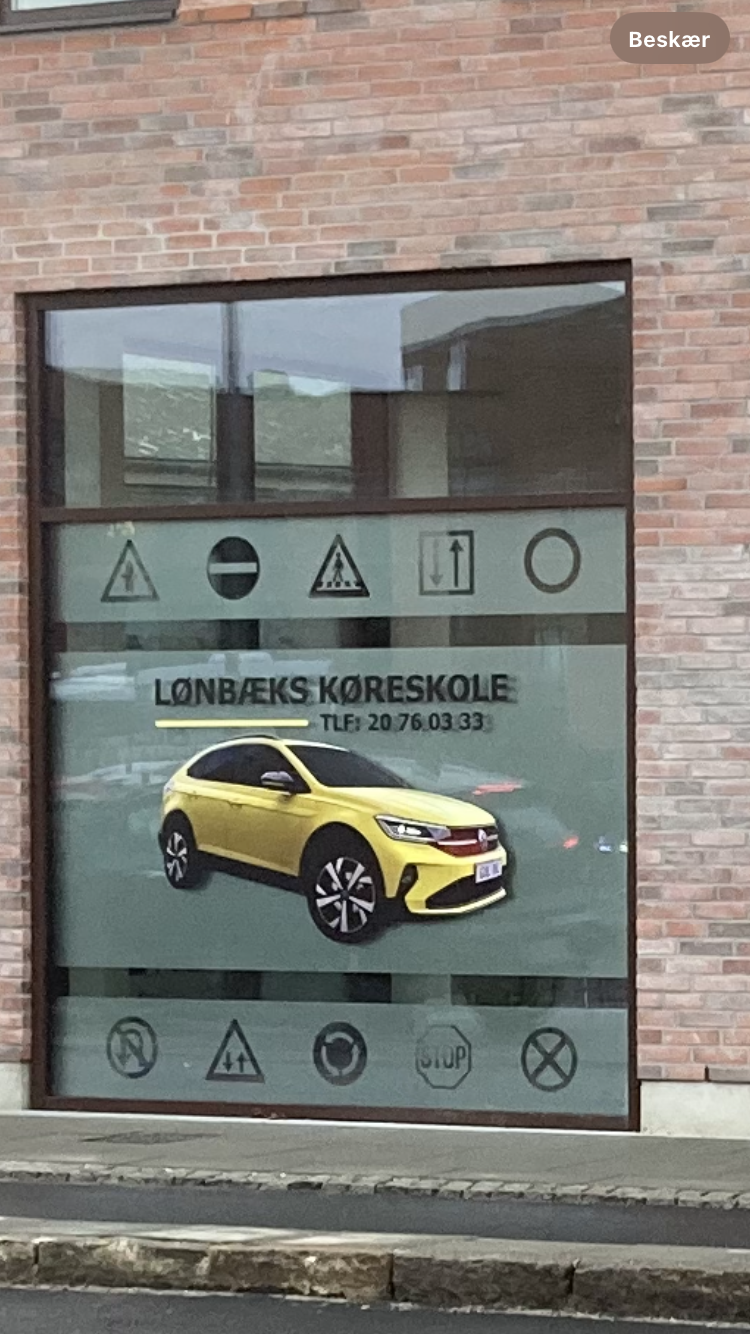
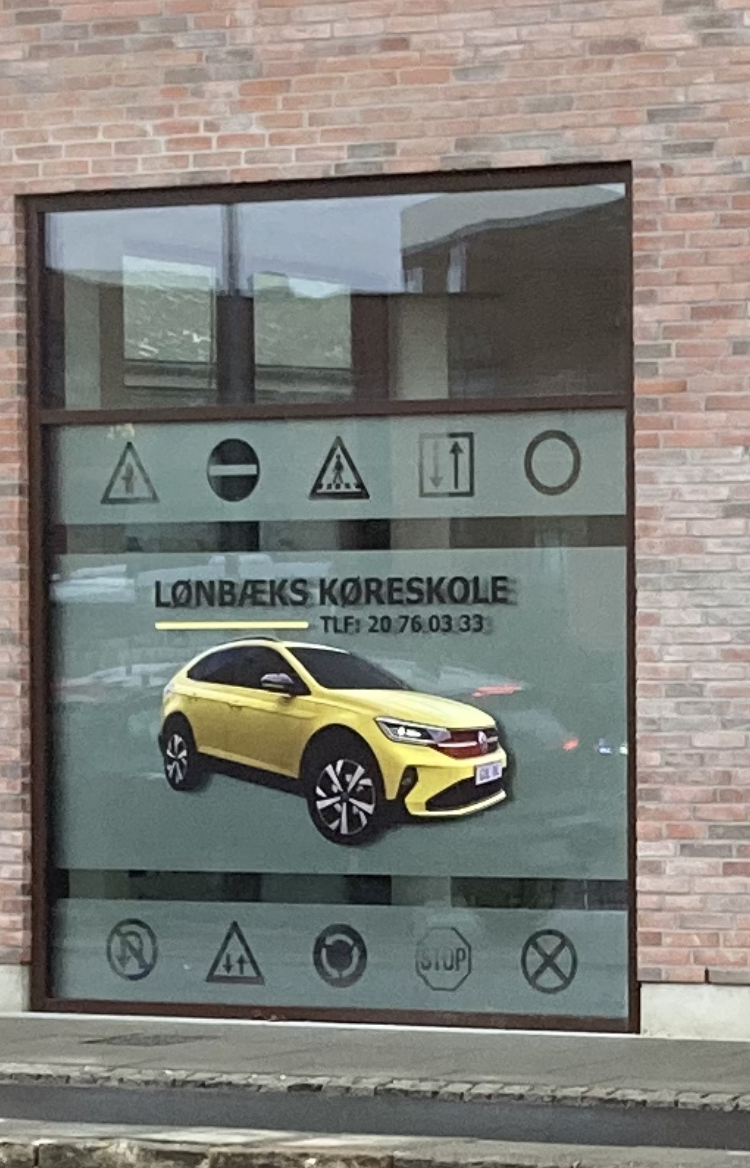
update

diff --git a/app/components/koereproeve-vejle/Cars.tsx b/app/components/koereproeve-vejle/Cars.tsx
@@ -1,58 +1,29 @@
 "use client";
 
 import React from "react";
-import Link from "next/link";
 import car from "@/app/assets/gulbil.png";
+
 const cars = [
   {
     name: "Skoda Octavia",
     year: "2024",
-    image: "/path-to-skoda-image.png", // Замініть на реальний шлях
+    image: "/path-to-skoda-image.png",
     description:
-      "Skoda Octavia er vores mest populære undervisningsbil. Komfortabel, sikker og nem at håndtere for elever. Perfekt til at lære de grundlæggende kørefærdigheder. Med dual-kontrol og moderne sikkerhedssystemer er det det ideelle valg for nye bilister. Skoda Octavia kombinerer pålidelighed med en behagelig køreoplevelse, hvilket gør det til det foretrukne valg for mange af vores elever. Den er rummelig, hvilket giver både elever og instruktører god plads under køretimerne, og dens responsive håndtering gør det nemt at navigere i både bytrafik og på landeveje.",
+      "Skoda Octavia er en komfortabel og sikker undervisningsbil, perfekt til nye elever. Den er let at håndtere, rummelig og udstyret med moderne sikkerhedssystemer samt dual-kontrol, hvilket giver tryghed under hele køreforløbet.",
   },
   {
     name: "Volkswagen Taigo",
     year: "2025",
-    image: car.src,  
+    image: car.src,
     description:
-      "VW Taigo tilbyder moderne teknologi, dual-kontrol og en sikker køreoplevelse. Perfekt til nybegyndere. Med sin kompakte størrelse og responsive håndtering er Taigo ideel til at lære at navigere i bytrafik og på landeveje. Den er udstyret med avancerede sikkerhedsfunktioner, der giver både elever og instruktører ekstra tryghed under køretimerne. VW Taigo er et populært valg for elever, der ønsker en bil, der kombinerer komfort, sikkerhed og moderne teknologi i deres køretimer.",
+      "Volkswagen Taigo kombinerer moderne teknologi, sikkerhed og nem manøvrering. Den kompakte størrelse gør den ideel til bykørsel, mens dual-kontrol og avancerede assistentsystemer sikrer en tryg læringsoplevelse.",
   },
 ];
 
 const CarsAlternating = () => {
   return (
-    <section
-      className="py-20 md:py-28 lg:py-40 max-w-7xl mx-auto"
-      style={{ backgroundColor: "var(--color-bg)" }}
-    >
+    <section className="py-20 md:py-28 lg:py-40 max-w-7xl mx-auto">
       <div className="px-6">
-        <div className="text-center max-w-3xl mx-auto mb-16">
-          <span
-            className="inline-block font-semibold text-sm uppercase tracking-widest px-4 py-2 rounded-full mb-4"
-            style={{
-              color: "var(--color-yellow)",
-              backgroundColor: "rgba(var(--color-yellow-rgb), 0.1)",
-            }}
-          >
-            Kørelektioner
-          </span>
-          <h2
-            className="font-display text-3xl md:text-4xl lg:text-5xl font-bold mb-6 leading-tight"
-            style={{ color: "var(--color-text)" }}
-          >
-            Vores køretøjer
-          </h2>
-          <p
-            className="text-lg leading-relaxed"
-            style={{ color: "var(--color-text-secondary)" }}
-          >
-            Alle vores biler er moderne, velholdte og udstyret med de nyeste sikkerhedssystemer.  
-            Vi tilbyder dual-kontrol for maksimal tryghed under køretimerne.
-          </p>
-        </div>
-
-        {/* Alternating grid */}
         <div className="space-y-20">
           {cars.map((car, index) => {
             const isEven = index % 2 === 0;
@@ -63,45 +34,26 @@ const CarsAlternating = () => {
                   !isEven ? "md:flex-row-reverse" : ""
                 }`}
               >
-                {/* Car Image */}
-                <div
-                  className="w-full md:w-1/2 rounded-3xl border-2 overflow-hidden"
-                  style={{
-                    borderColor: "var(--color-border)",
-                    backgroundColor: "var(--color-bg)",
-                  }}
-                >
-                  <div className="aspect-video w-full flex items-center justify-center ">
+                {/* Image */}
+                <div className="w-full md:w-1/2 rounded-3xl border-2 border-amber-50 overflow-hidden">
+                  <div className="w-full h-[260px] md:h-[320px] lg:h-[380px]">
                     <img
                       src={car.image}
                       alt={`${car.name} ${car.year}`}
-                      className="w-full h-full object-contain"
+                      className="w-full h-full object-cover object-center"
                     />
                   </div>
                 </div>
 
                 {/* Text */}
                 <div className="w-full md:w-1/2 space-y-4">
-                  <h3
-                    className="font-bold text-2xl"
-                    style={{ color: "var(--color-text)" }}
-                  >
-                    {car.name}
-                  </h3>
-                  <p
-                    className="text-sm font-medium"
-                    style={{ color: "var(--color-yellow)" }}
-                  >
+                  <h3 className="font-bold text-2xl">{car.name}</h3>
+                  <p className="text-sm font-medium text-yellow-500">
                     Årgang {car.year}
                   </p>
-                  <p
-                    className="text-lg text-neutral-600 leading-relaxed"
-                    style={{ color: "var(--color-text-secondary)" }}
-                  >
+                  <p className="text-lg text-neutral-600 leading-relaxed">
                     {car.description}
                   </p>
-
-               
                 </div>
               </div>
             );

diff --git a/app/blog/[name]/page.tsx b/app/blog/[name]/page.tsx
@@ -14,36 +14,60 @@ interface BlogPost {
 }
 
 const blogPosts: BlogPost[] = [
-  { id: 1, category: "teoriproeve-tips", title: "10 typiske teoriprøve-fejl", description: "Lær de mest almindelige fejl...", date: "2026-02-10", image: mistake.src, slug: "/blog/10-typiske-fejl" },
-  { id: 2, category: "teoriproeve-tips", title: "Sådan lærer du trafikregler effektivt", description: "...", date: "2026-02-08", image: "/blog-image-2.jpg", slug: "laer-trafikregler" },
-  // Додайте інші пости...
+  {
+    id: 1,
+    category: "teoriproeve-tips",
+    title: "10 typiske teoriprøve-fejl",
+    description: "Lær de mest almindelige fejl...",
+    date: "2026-02-10",
+    image: mistake.src,
+    slug: "10-typiske-fejl",
+  },
+  {
+    id: 2,
+    category: "teoriproeve-tips",
+    title: "Sådan lærer du trafikregler effektivt",
+    description: "...",
+    date: "2026-02-08",
+    image: "/blog-image-2.jpg",
+    slug: "laer-trafikregler",
+  },
 ];
 
-// Функція для генерації статичних сторінок
-export const generateStaticParams = async () => {
-  return blogPosts.map(post => ({ name: post.slug }));
-};
-
-interface PageProps {
-  params: { name: string };
+export async function generateStaticParams() {
+  return blogPosts.map((post) => ({
+    name: post.slug,
+  }));
 }
 
 const formatDate = (isoDate: string) => {
   const date = new Date(isoDate);
-  return date.toLocaleDateString("da-DK", { day: "numeric", month: "long", year: "numeric" });
+  return date.toLocaleDateString("da-DK", {
+    day: "numeric",
+    month: "long",
+    year: "numeric",
+  });
 };
 
-const BlogPostPage = ({ params }: PageProps) => {
-  const { name } = params;
+export default async function BlogPostPage({
+  params,
+}: {
+  params: Promise<{ name: string }>;
+}) {
+  const { name } = await params;
 
-  const post = blogPosts.find(p => p.slug === name);
+  const post = blogPosts.find((p) => p.slug === name);
 
   if (!post) {
     return (
       <div className="text-center py-20">
         <h2 className="text-3xl font-bold mb-4">Artiklen blev ikke fundet</h2>
         <p className="text-lg mb-6">
-          Tjek URL eller gå tilbage til <Link href="/blog" className="text-yellow-500 underline">bloggen</Link>.
+          Tjek URL eller gå tilbage til{" "}
+          <Link href="/blog" className="text-yellow-500 underline">
+            bloggen
+          </Link>
+          .
         </p>
       </div>
     );
@@ -51,23 +75,28 @@ const BlogPostPage = ({ params }: PageProps) => {
 
   return (
     <section className="py-20 md:py-28 lg:py-40 max-w-4xl mx-auto px-6">
-      <h1 className="text-4xl md:text-5xl font-bold mb-6" style={{ color: "var(--color-text)" }}>{post.title}</h1>
-      <p className="text-sm text-gray-500 mb-8">{formatDate(post.date)}</p>
+      <h1 className="text-4xl md:text-5xl font-bold mb-6">
+        {post.title}
+      </h1>
+
+      <p className="text-sm text-gray-500 mb-8">
+        {formatDate(post.date)}
+      </p>
 
       <div className="mb-8 overflow-hidden rounded-2xl">
         <img src={post.image} alt={post.title} className="w-full object-cover" />
       </div>
 
-      <div className="prose max-w-full" style={{ color: "var(--color-text-secondary)" }}>
+      <div className="prose max-w-full">
         <p>{post.description}</p>
         <p>Lorem ipsum dolor sit amet, consectetur adipiscing elit...</p>
       </div>
 
       <div className="mt-12">
-        <Link href="/blog" className="text-yellow-500 underline">← Tilbage til bloggen</Link>
+        <Link href="/blog" className="text-yellow-500 underline">
+          ← Tilbage til bloggen
+        </Link>
       </div>
     </section>
   );
-};
-
-export default BlogPostPage;
+}

diff --git a/app/components/om-os/AboutInro.tsx b/app/components/om-os/AboutInro.tsx
@@ -1,7 +1,8 @@
 "use client";
 
 import React from "react";
-import car from "@/app/assets/gulbil.png";
+import img from "@/app/assets/small-school.png";
+
 const AboutIntro = () => {
   return (
     <section
@@ -11,7 +12,7 @@ const AboutIntro = () => {
       <div className="px-6">
         <div className="grid lg:grid-cols-2 gap-16 lg:gap-24 items-center">
           
-          {/* CONTENT (on mobile first) */}
+          {/* TEXT */}
           <div className="max-w-xl mx-auto lg:mx-0 order-1 lg:order-2 text-center lg:text-left">
             <span
               className="font-semibold text-sm uppercase tracking-widest"
@@ -31,10 +32,10 @@ const AboutIntro = () => {
               className="normal-text mb-6"
               style={{ color: "var(--color-text-secondary)" }}
             >
-              Hos <strong>Lønbæks Køreskole i Vejle</strong> får du en 
-              personlig køreuddannelse med fokus på både læring og trivsel.
-              Undervisningen foregår i et roligt tempo, så du føler dig godt
-              forberedt til både <strong>teori- og køreprøven</strong>.
+              Hos <strong>Lønbæks Køreskole i Vejle</strong> får du en personlig
+              køreuddannelse med fokus på både læring og trivsel. Undervisningen
+              foregår i et roligt tempo, så du føler dig godt forberedt til både
+              <strong> teori- og køreprøven</strong>.
             </p>
 
             <p
@@ -58,27 +59,13 @@ const AboutIntro = () => {
             </p>
           </div>
 
-          {/* IMAGES */}
+          {/* IMAGE */}
           <div className="order-2 lg:order-1">
-            <div className="grid grid-cols-2 gap-5 md:gap-8 items-start">
-              
-              {/* Image 1 */}
-              <div
-                className="rounded-3xl overflow-hidden border-2 shadow-xl 
-                h-[260px] sm:h-[320px] md:h-[420px] lg:h-[520px]
-               "
-                style={{ borderColor: "var(--color-border)" }}
-              >
-                <img
-                  src={car.src}
-                  alt="Køreundervisning"
-                  className="w-full h-full object-cover"
-                />
-              </div>
-
-              {/* Image 2 */}
-           
-            </div>
+            <img
+              src={img.src}
+              alt="Køreundervisning"
+              className="w-full h-full max-h-[500px] object-cover rounded-2xl"
+            />
           </div>
 
         </div>

diff --git a/app/components/Header.tsx b/app/components/Header.tsx
@@ -115,9 +115,9 @@ export const Header = () => {
             <button
               className="lg:hidden"
               onClick={() => setOpen(true)}
-              style={{ color: "var(--color-text)" }}
+              style={{ color: "var(--color-white)" }}
             >
-              <Menu className="w-7 h-7 var(--color-text)" />
+              <Menu className="w-7 h-7 " />
             </button>
           </div>
         </div>
@@ -204,13 +204,15 @@ export const Header = () => {
                 );
               })}
 
+ <Link href="/holdstart-vejle" >
               <motion.button
                 whileHover={{ scale: 1.03 }}
                 whileTap={{ scale: 0.95 }}
-                className="mt-10 bg-yellow-400 text-black rounded-full py-4 text-lg font-semibold"
+                className="mt-10 bg-yellow-400 text-black rounded-full py-4 text-md font-semibold px-4"
               >
                 Tilmeld hold
               </motion.button>
+              </Link>
             </motion.nav>
           </motion.div>
         )}
@@ -220,6 +222,8 @@ export const Header = () => {
 };
 
 const CTAButton = () => (
+   <Link href="/holdstart-vejle" className="self-start">
+
   <motion.button
     whileHover={{ y: -2 }}
     whileTap={{ scale: 0.96 }}
@@ -234,4 +238,5 @@ const CTAButton = () => (
       <ArrowUpRight size={16} />
     </motion.div>
   </motion.button>
+  </Link>
 );

diff --git a/app/om-os/page.tsx b/app/om-os/page.tsx
@@ -17,6 +17,8 @@ import FAQ from "../components/FAQ";
 import Contact from "../components/Contact";
 import Cars from "../components/koereproeve-vejle/Cars";
 
+
+
 export default function OmOs() {
   return (
     <>
